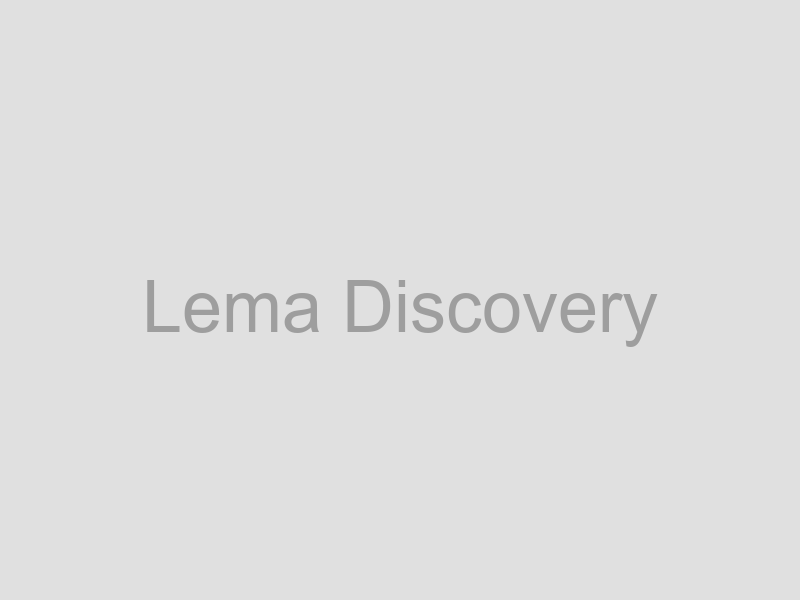
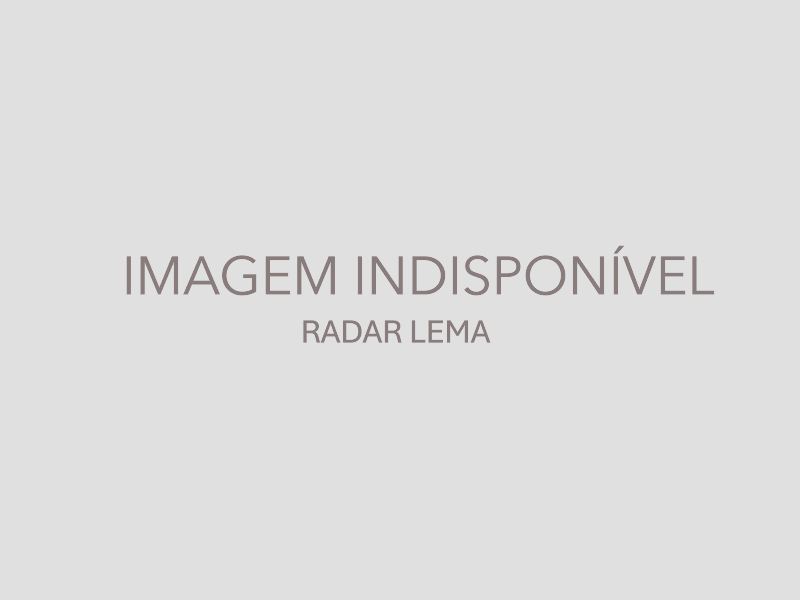
fix: usar placeholder novo em todos os eventos
- Limpa event_photos no banco (todos os eventos caem no fallback)
- Cache-buster ?v=2 nas URLs de fallback
- Exclui placeholder-event.png do precache e cache de imagens do PWA

Changed region(s): [[0.1562, 0.42, 0.9062, 0.6]]

diff --git a/src/pages/EventDetail.jsx b/src/pages/EventDetail.jsx
@@ -210,7 +210,7 @@ export default function EventDetail() {
         <Box sx={{ position: 'relative' }}>
           <Box
             component="img"
-            src={photos[activePhoto]?.public_url || '/placeholder-event.png'}
+            src={photos[activePhoto]?.public_url || '/placeholder-event.png?v=2'}
             alt={event.title}
             loading="lazy"
             onClick={() => setLightboxOpen(true)}
@@ -386,7 +386,7 @@ export default function EventDetail() {
 
           <Box
             component="img"
-            src={photos[activePhoto]?.public_url || '/placeholder-event.png'}
+            src={photos[activePhoto]?.public_url || '/placeholder-event.png?v=2'}
             alt={event.title}
             sx={{
               maxWidth: '100%',

diff --git a/vite.config.js b/vite.config.js
@@ -60,6 +60,7 @@ export default defineConfig({
       },
       workbox: {
         globPatterns: ['**/*.{js,css,html,svg,png,woff2}'],
+        globIgnores: ['**/placeholder-event.png'],
         navigateFallback: 'index.html',
         navigateFallbackDenylist: [/^\/api/, /^\/storage/],
         runtimeCaching: [
@@ -89,7 +90,7 @@ export default defineConfig({
             }
           },
           {
-            urlPattern: /\.(?:png|jpg|jpeg|svg|gif|webp)$/i,
+            urlPattern: /^(?!.*placeholder-event).*\.(?:png|jpg|jpeg|svg|gif|webp)$/i,
             handler: 'StaleWhileRevalidate',
             options: {
               cacheName: 'app-images',

diff --git a/src/components/EventCard.jsx b/src/components/EventCard.jsx
@@ -81,7 +81,7 @@ export default function EventCard({ event, isFavorite, onToggleFavorite }) {
             <CardMedia
               component="img"
               height="180"
-              image={event.cover_photo?.public_url || '/placeholder-event.png'}
+              image={event.cover_photo?.public_url || '/placeholder-event.png?v=2'}
               alt={event.title}
               loading="lazy"
               sx={{ objectFit: 'cover' }}

diff --git a/src/components/PhotoUploader.jsx b/src/components/PhotoUploader.jsx
@@ -151,7 +151,7 @@ export default function PhotoUploader({ photos = [], onChange }) {
           >
             <Box
               component="img"
-              src={photo.preview || photo.public_url || '/placeholder-event.png'}
+              src={photo.preview || photo.public_url || '/placeholder-event.png?v=2'}
               alt={`Foto ${index + 1}`}
               sx={{ width: '100%', height: '100%', objectFit: 'cover' }}
             />
